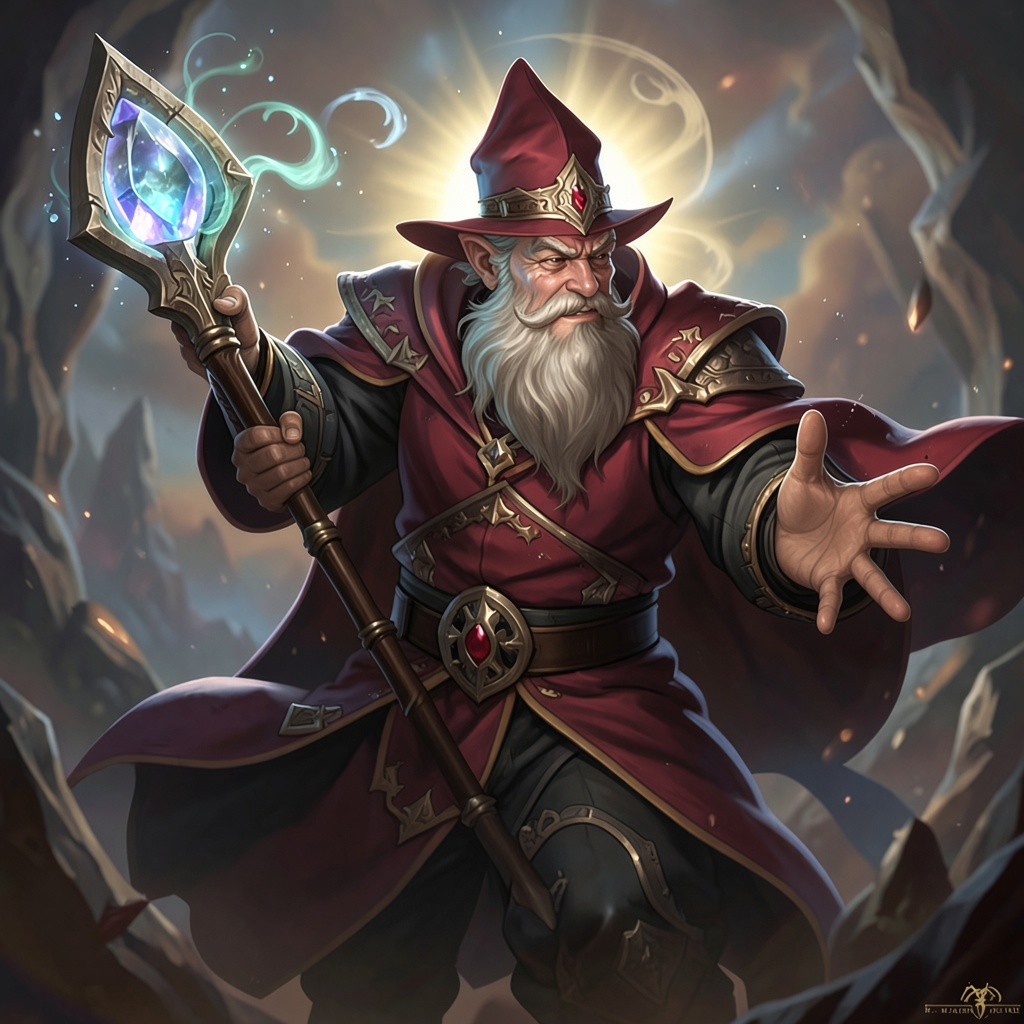
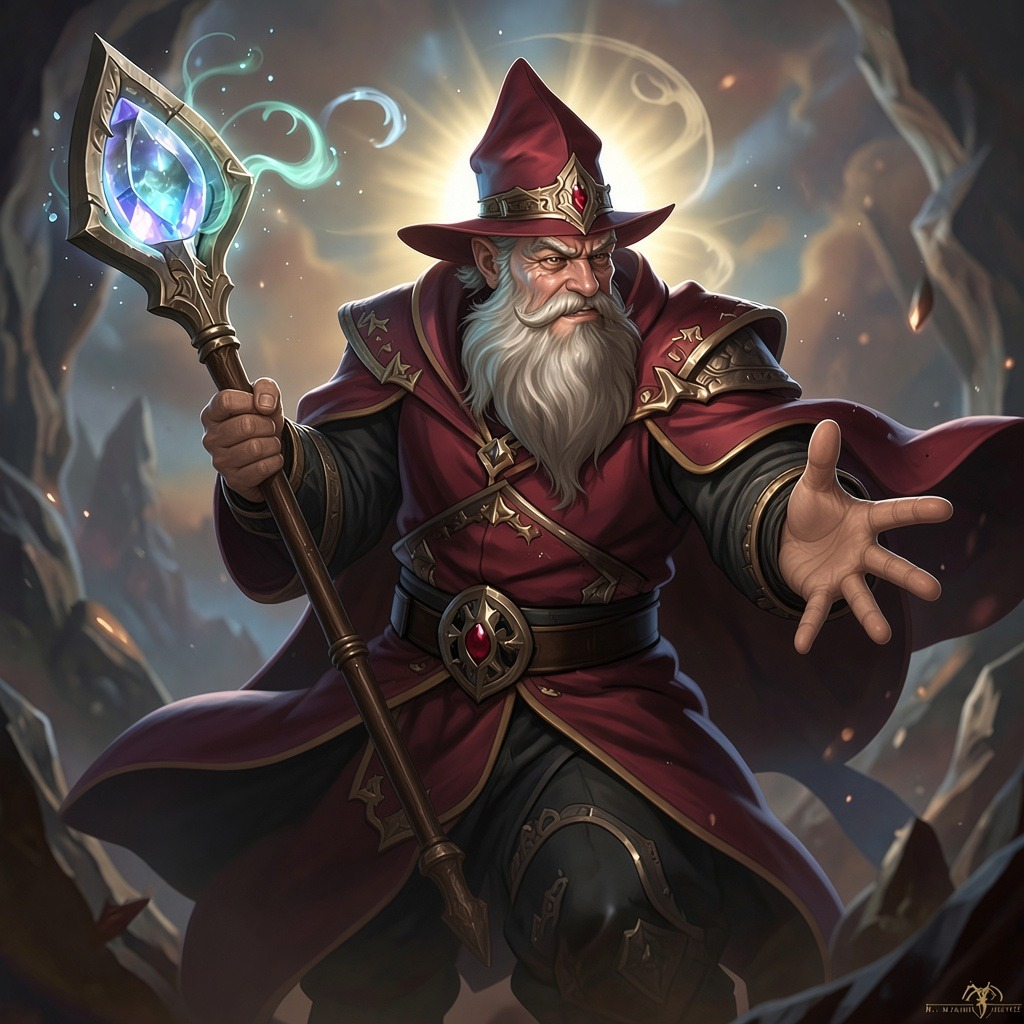
Fix mage card: only one hand on the staff.

diff --git a/src/game/cards.ts b/src/game/cards.ts
@@ -66,7 +66,7 @@ export function manaCostTotal(cost: ManaCost): number {
 }
 
 /** Сброс CDN/браузерного кэша картинок карт после замены арта. */
-const CARD_ART_CACHE = "4";
+const CARD_ART_CACHE = "5";
 
 export function cardArtUrl(card: CardDef): string {
   const art = card.art ?? `${card.id}.png`;
